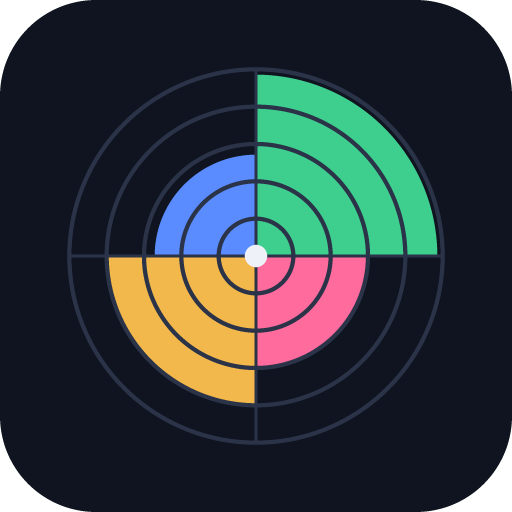
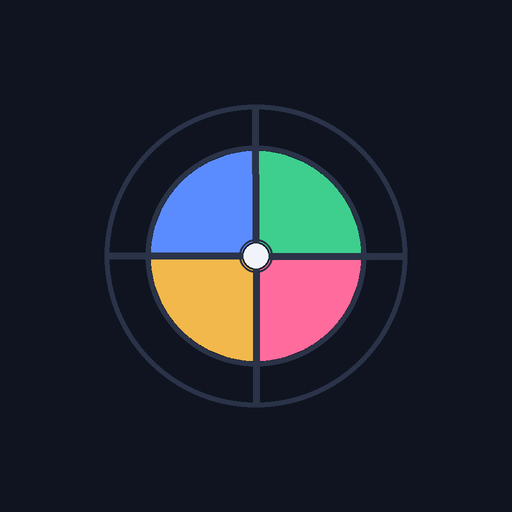
Иконка: дизайн сохранён, перерисован в HD и добавлены размеры 32/180 (v1.4.69)

diff --git a/index.html b/index.html
@@ -31,7 +31,9 @@
 <link rel="dns-prefetch" href="https://cdnjs.cloudflare.com">
 <link rel="stylesheet" href="https://cdnjs.cloudflare.com/ajax/libs/tabler-icons/3.44.0/tabler-icons.min.css">
 <meta name="theme-color" content="#0f1420">
+<link rel="icon" type="image/png" sizes="32x32" href="./icon-32.png">
 <link rel="icon" href="./icon-192.png">
+<link rel="apple-touch-icon" sizes="180x180" href="./icon-180.png">
 <link rel="apple-touch-icon" href="./icon-192.png">
 <meta name="mobile-web-app-capable" content="yes">
 <meta name="apple-mobile-web-app-capable" content="yes">
@@ -1715,7 +1717,7 @@
    - PATCH (2): +1 на каждое изменение версии, начиная с 2.
    APP_VERSION is the only place to bump: footer, About panel and tests read it;
    package.json / manifest.json / sw.js are synced to the same value. */
-const APP_VERSION = '1.4.67';
+const APP_VERSION = '1.4.69';
 /* ===== Wish board constants =====
    Declared high up on purpose: loadState() runs near the top of this script and calls
    ensureWishMap(), which enforces these limits — declaring them lower would blow up in the

diff --git a/sw.js b/sw.js
@@ -4,13 +4,15 @@
 //
 // Версия кэша = версия приложения (см. APP_VERSION в index.html): каждый бамп версии
 // гарантированно сносит старый кэш у всех, кто уже установил приложение, и тянет свежие файлы.
-const CACHE_NAME = 'goal-tracker-v1.4.67';
+const CACHE_NAME = 'goal-tracker-v1.4.69';
 const ASSETS = [
   './', 
   './index.html',
   './manifest.json',
   './icon-192.png',
   './icon-512.png',
+  './icon-180.png',
+  './icon-32.png',
   './quotes.js'
 ];
 // Версия ЭТОГО воркера (из CACHE_NAME 'goal-tracker-vX.Y.Z'). Используется для самолечения:

diff --git a/README.md b/README.md
@@ -60,6 +60,7 @@
 — Владимир
 
 ## История изменений
+- **v1.4.69** (19.11.2026) — **Иконка: сохранённый дизайн отрисован заново в высоком разрешении и разложен на размеры.** Оригинальное «колесо баланса» (4 сектора: розовый, янтарный, голубой, зелёный; белая ступица; тёмные спицы и два кольца) воспроизведено из одного мастера 1024px с чистым анти-алиасом. Добавлены `icon-32.png` (favicon) и `icon-180.png` (apple-touch-icon для iOS) — 192 и 512 обновлены из той же модели. Версия синхронизирована (index.html, package.json, manifest.json, sw.js кэш). 394 теста зелёные.
 - **v1.4.67** (19.11.2026) — **Навигация по коду без изменения поведения.** В начало inline-скрипта добавлена «КАРТА КОДА» (секции и приблизительные строки), в начало `<style>` — «ИНДЕКС CSS» (16 секций + красные линии тач-режима), рядом с `let state` — «SCHEMA STATE» (форма дерева, инварианты колеса, модули `state.*` и обязательные `ensure*` при подмене). JSDoc добавлен к 40 публичным функциям из `EXPORT_SRC`. Новые сторож-тесты: карта/индекс/схема не пропадают, у ключевого API есть JSDoc. В AGENTS.md §4 добавлена развилка «документация vs рантайм» (докправки версию не бампят). Версия синхронизирована (index.html, package.json, manifest.json, sw.js кэш). 394 теста зелёные.
 - **v1.4.66** (19.11.2026) — **«Победы за неделю»: пустая рефлексия больше не сохраняется.** Сохранение формы с пустыми (или состоящими из пробелов) ответами создавало пустую запись в `state.goodTodayWeekReflections`, из-за чего блок показывал «отчёт сохранён» без текста. Теперь `q1/q2/q3` обрезаются, и если все три пусты — запись не создаётся и не перезаписывается (прежний сохранённый текст остаётся). Рендер сохранённой рефлексии (текущая неделя и история) показывает только заполненные вопросы, а `ensureGoodToday` выбрасывает пустые записи из старых сохранений. Версия синхронизирована (index.html, package.json, manifest.json, sw.js кэш). 392 теста зелёные.
 - **v1.4.63** (15.11.2026) — **Цели: убран стабильный id у поля ввода названия.** Поле ввода названия цели (`goal-input`) больше не имеет `id` — фиксированный `id` приводил к тому, что при перерисовке (`render()` через `innerHTML`) фокус и выделение текста восстанавливались некорректно, из-за чего при вводе названия новой цели появлялись лишние буквы. Фокус на поле новой цели восстанавливается явно в `focusGoalInput()` сразу после `render()`. Версия синхронизирована (index.html, package.json, manifest.json, sw.js кэш). 387 тестов зелёные.
